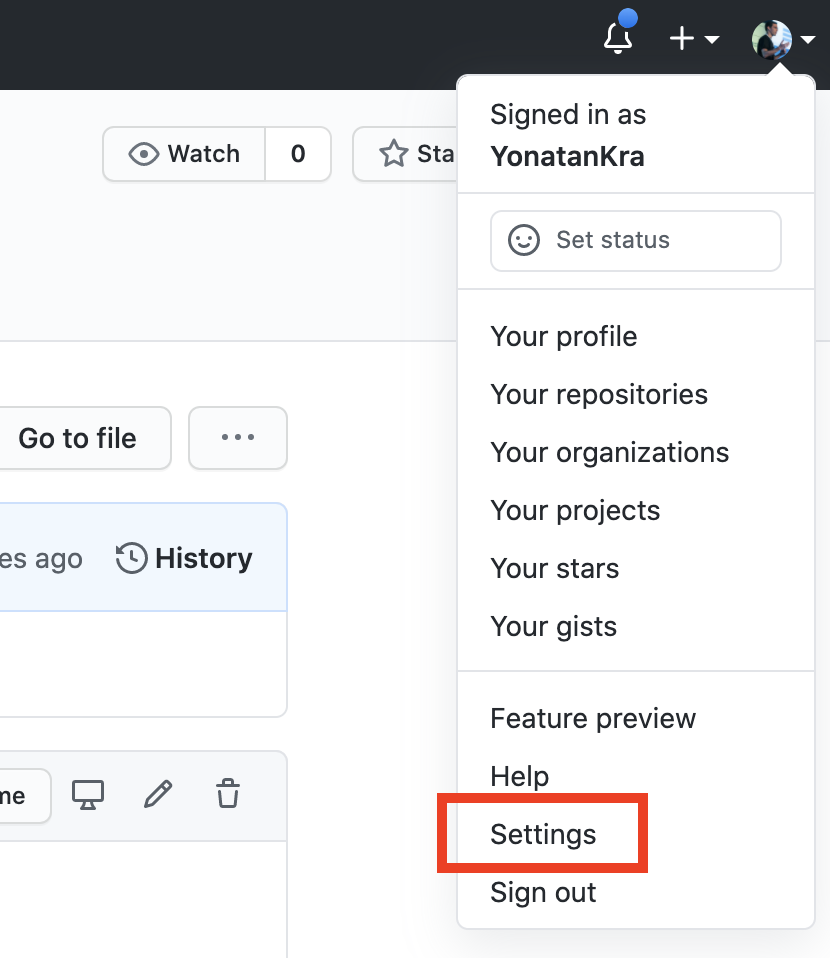
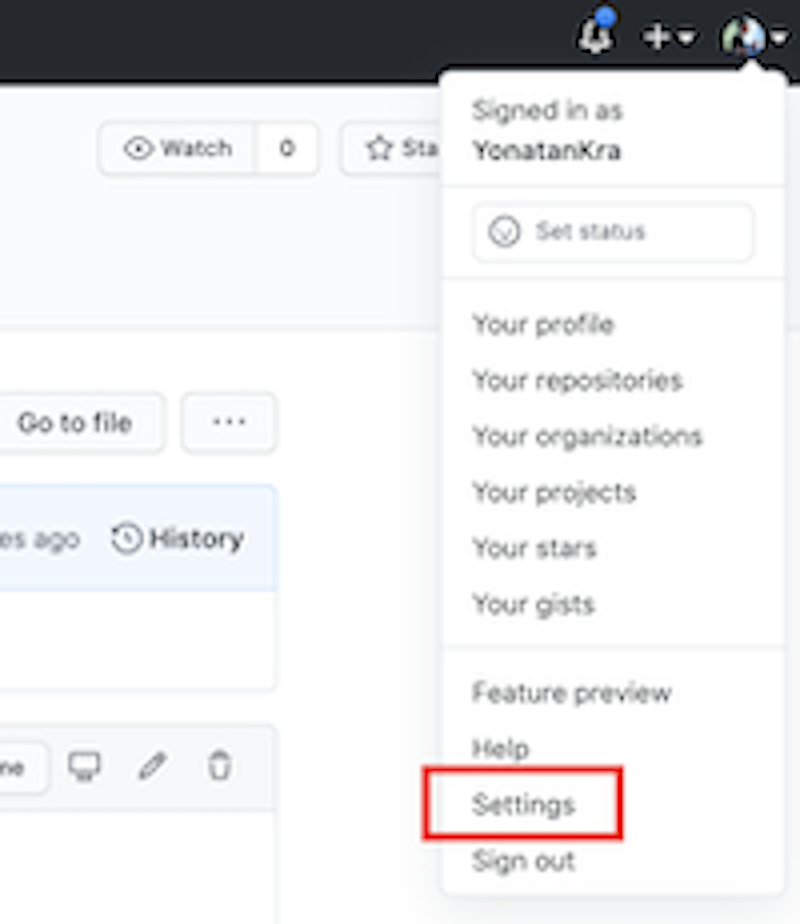
Complete token creation guide

diff --git a/docs/tokens.md b/docs/tokens.md
@@ -1,8 +1,20 @@
 # Generating a token 
 Follow the following guide to generate a token:
-![How to setup a token](./images/createAGithubToken.gif)
 1. Login to github
-2. Go to settings:
-![Github Settings](./images/githubSettings.png)
-3. 
+2. Go to settings:        
+![Github Settings](./images/githubSettingsSmall.png)
+3. Select `Developer settings`:   
+![Github Settings](./images/developerSettings.png)
+4. Select `Personal access tokens`
+5. Select `Generate new token`
+6. Confirm your password
+7. Type in a name for the tokn (e.g. Vonage Token)
+8. Check all the checkboxes for permissions
+9. Generate the token (the green button at the bottom of the checkboxes list)
+10. Once the token is generated, copy it to someplace safe
+11. In the line of the token select enable SSO:         
+![Github Settings](./images/enableSSO.png)
+
+You can watch the video here:
+![How to setup a token](../images/createAGithubToken.gif)
 
